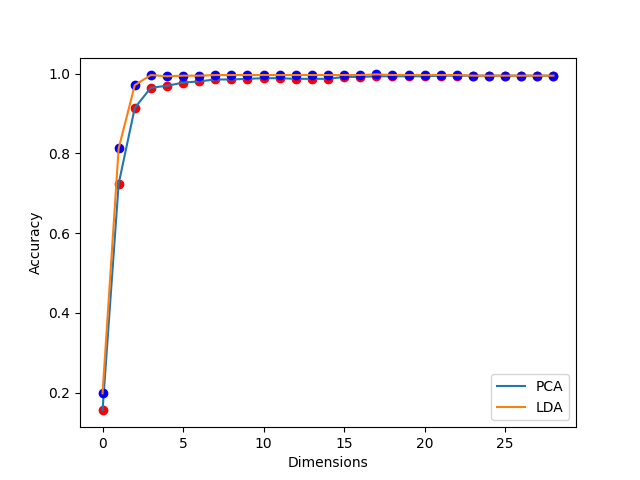
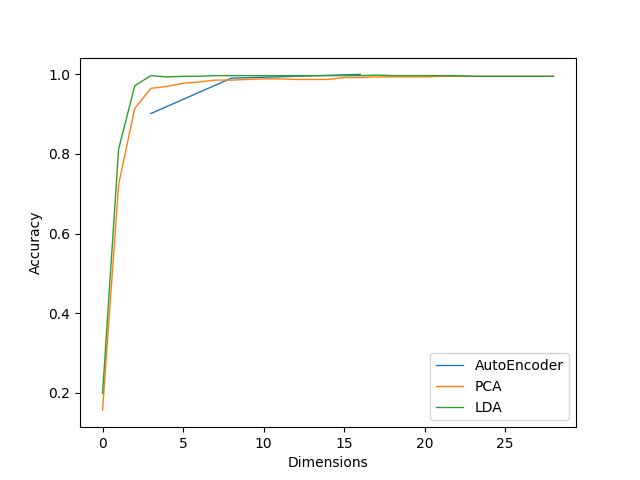
hw10 final version

Changed region(s): [[0.1562, 0.125, 0.875, 0.875], [0.6875, 0.75, 0.875, 0.875]]

diff --git a/vision.py b/vision.py
@@ -1637,10 +1637,12 @@ def LDA(X,m, idx_array, num_classes):
     return W
 
 def plot_acc(pca_list, lda_list, K ):
-    plt.plot(K, pca_list,'ro')
-    plt.plot(K, pca_list, label='PCA')
-    plt.plot(K, lda_list,'bo')
-    plt.plot(K, lda_list, label='LDA')
+    Y = np.array([568, 624, 630])
+    Y = Y / 630
+    X = np.array([3, 8, 16])
+    plt.plot(X, Y, label='AutoEncoder', linewidth=1)
+    plt.plot(K, pca_list, label='PCA', linewidth=1)
+    plt.plot(K, lda_list, label='LDA', linewidth=1)
     plt.legend()
     plt.xlabel('Dimensions')
     plt.ylabel('Accuracy')

diff --git a/hw10data/autoencoder.py b/hw10data/autoencoder.py
@@ -223,5 +223,4 @@ else:
     y_test = np.array(y_test)
     num_matches = NearestNeighbor(X_test, X_train, y_train,y_test)
     print(num_matches)
-    plot_autoEncoder()
 
